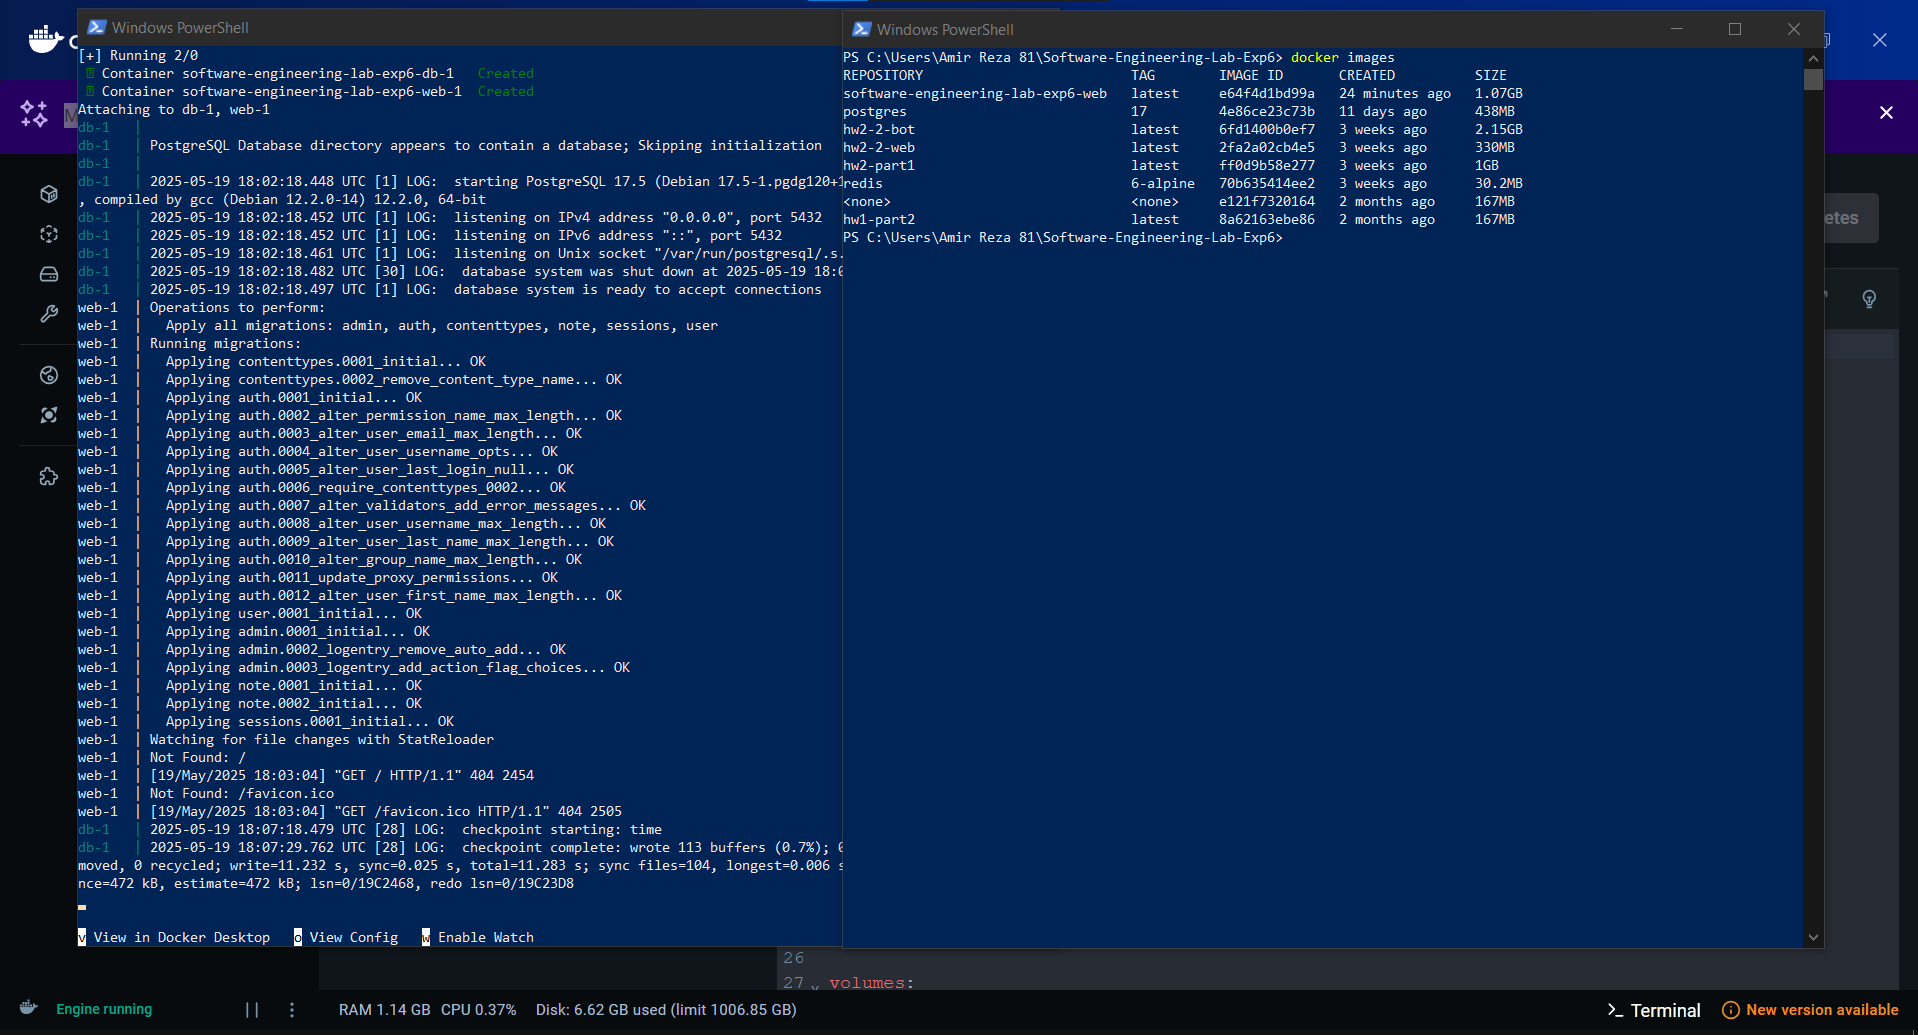
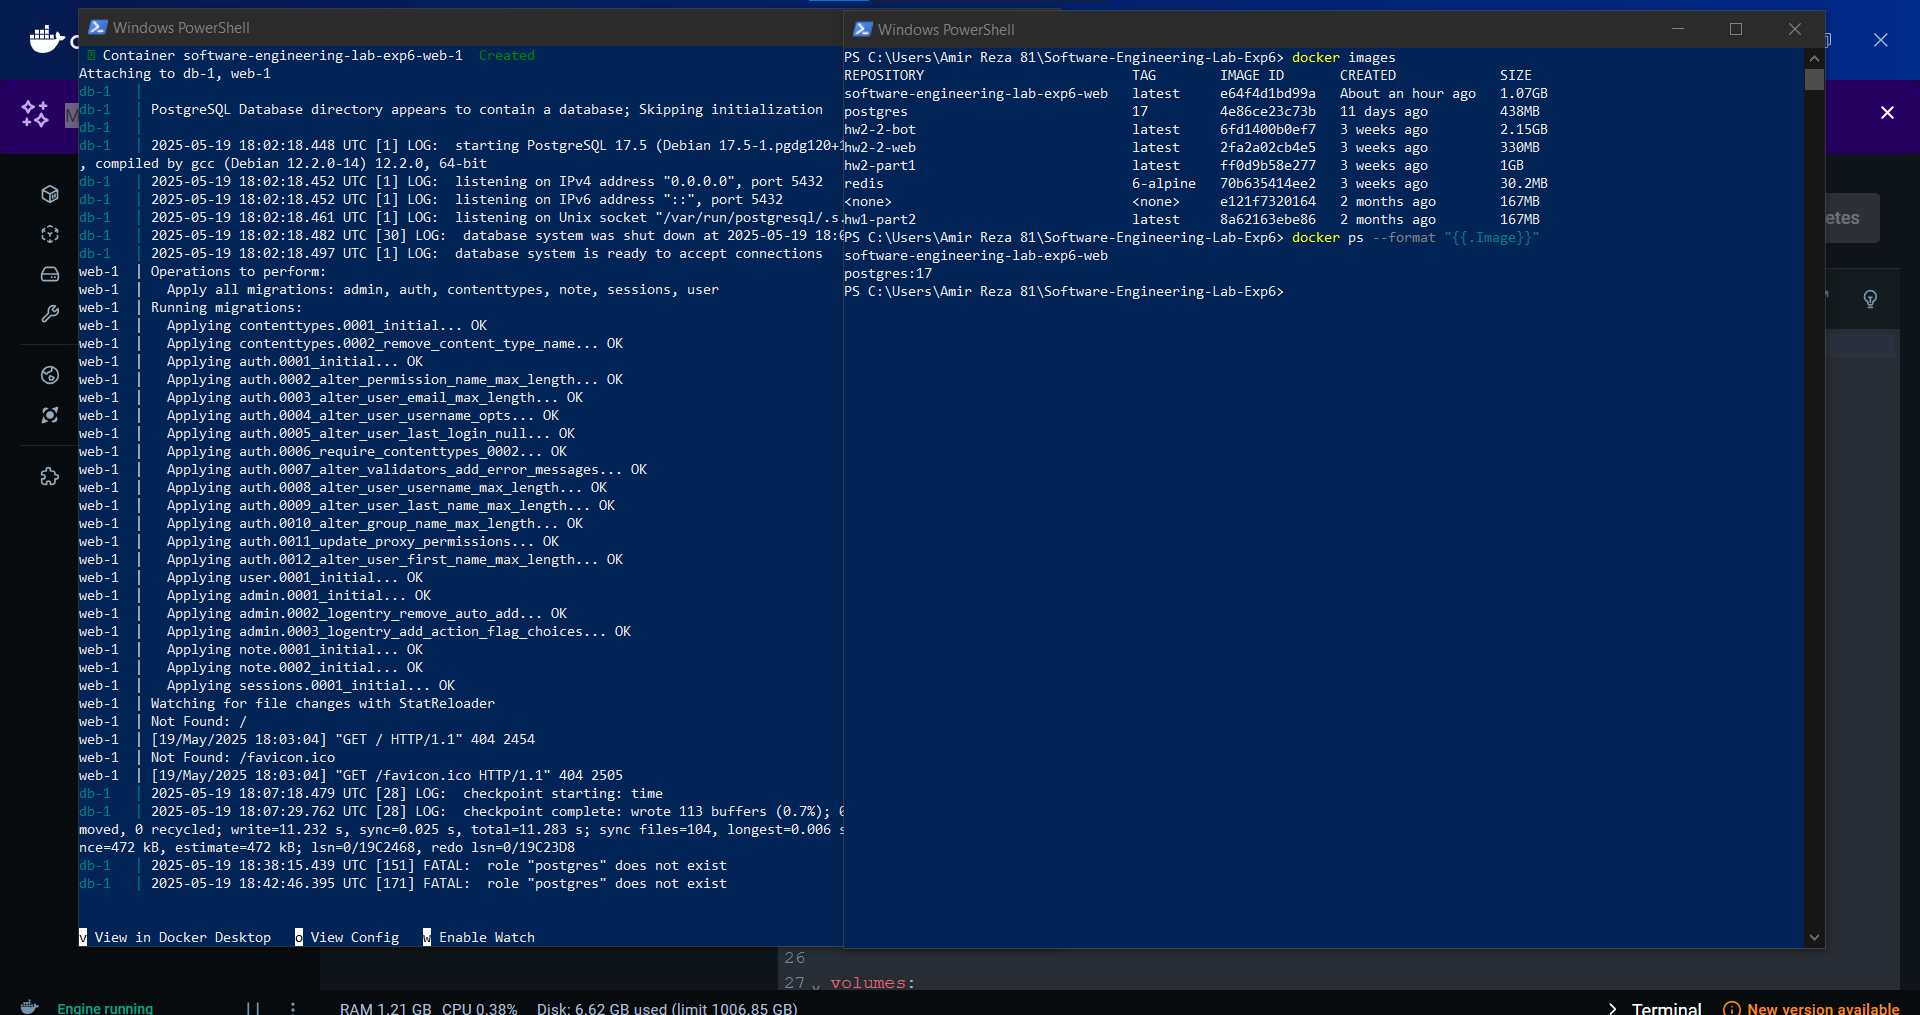
report: Add report of images, containers and chose command

diff --git a/README.md b/README.md
@@ -1,6 +1,6 @@
-# Software-Engineering-Lab-Exp6
+# آزمایش ششم - استقرار یک نرمافزار به کمک Docker
 
-# راهاندازی پروژه با داکر
+## راهاندازی پروژه با داکر
 
 در این پروژه از داکر برای اجرای برنامه استفاده شده است. دو فایل اصلی برای راهاندازی پروژه وجود دارد:
 
@@ -127,6 +127,33 @@ docker-compose up -d
 در نهایت نیز لیست note های کاربر را با استفاده از یک ریکوئست GET میگیریم و میبینیم که دو تا note ای که ساختیم نمایش داده میشود.
 
 ![Screenshot 2025-05-19 161047](https://github.com/user-attachments/assets/f409528c-f4c4-4410-88d7-97e4401e63d5)
+
+## تعامل با داکر
+
+در این بخش، در قسمت اول با دستورهای مناسب، imageها و containerهای خود را نشان میدهیم.
+
+دستور `docker images`:
+![images](pics/1.png)
+
+در تصویر بالا لیست imageها را مشاهده میکنید.
+software-engineering-lab-exp6-web و postgres:17 از image های مورد استفاده ما میباشند.
+
+دستور `docker ps`:
+![images](pics/2.png)
+
+با اجرای دستور `docker ps` لیست کانتینرهای در حال اجرا نمایش داده شد. طبق خروجی، دو کانتینر فعال هستند: یکی با تصویر `software-engineering-lab-exp6-web` که وبسرور پروژه را اجرا میکند و روی پورت ۸۰۰۰ سیستم میزبان در دسترس است، و دیگری با تصویر `postgres:17` که مربوط به پایگاه داده PostgreSQL است و روی پورت ۵۴۳۲ فعال است. این اطلاعات نشان میدهد هر دو بخش اصلی پروژه (وبسرور و پایگاه داده) بهدرستی اجرا شدهاند.
+
+![images](pics/3.png)
+
+با اجرای دستور `docker exec -it software-engineering-lab-exp6-web-1 python manage.py showmigrations`، لیست مهاجرتهای اعمالشده در پروژه جنگو نمایش داده شد. این خروجی نشان میدهد که تمامی مهاجرتها (migrations) مربوط به اپلیکیشنهای مختلف از جمله admin، auth، contenttypes، note، sessions و user با موفقیت انجام شدهاند (با علامت [X] مشخص شدهاند) که بیانگر آماده بودن ساختار پایگاه داده برای استفاده توسط وباپلیکیشن است.
+
+![images](pics/4.png)
+
+با اجرای دستور `docker exec -it software-engineering-lab-exp6-web-1 ls /app`، محتوای دایرکتوری /app در کانتینر وبسرور نمایش داده شد. این خروجی نشان میدهد که فایلهای مهم پروژه از جمله Dockerfile، docker-compose.yaml، manage.py و requirements.txt به همراه پوشههای apps و notes در این مسیر قرار دارند که نمایانگر ساختار اصلی پروژه جنگو در کانتینر است.
+
+![images](pics/5.png)
+
+با اجرای دستور `docker exec -it software-engineering-lab-exp6-db-1 psql -U user -l`، لیست دیتابیسهای موجود در کانتینر پایگاه داده نمایش داده شد. خروجی شامل چهار دیتابیس notes، postgres، template0 و template1 است که همگی با مالکیت کاربر user و با کدگذاری UTF8 ایجاد شدهاند. دیتابیس notes احتمالاً مربوط به اپلیکیشن اصلی پروژه است. این اطلاعات نشان میدهند که اتصال به پایگاه داده موفق بوده و دیتابیسها به درستی راهاندازی شدهاند.
 
 ## پرسشها
 
